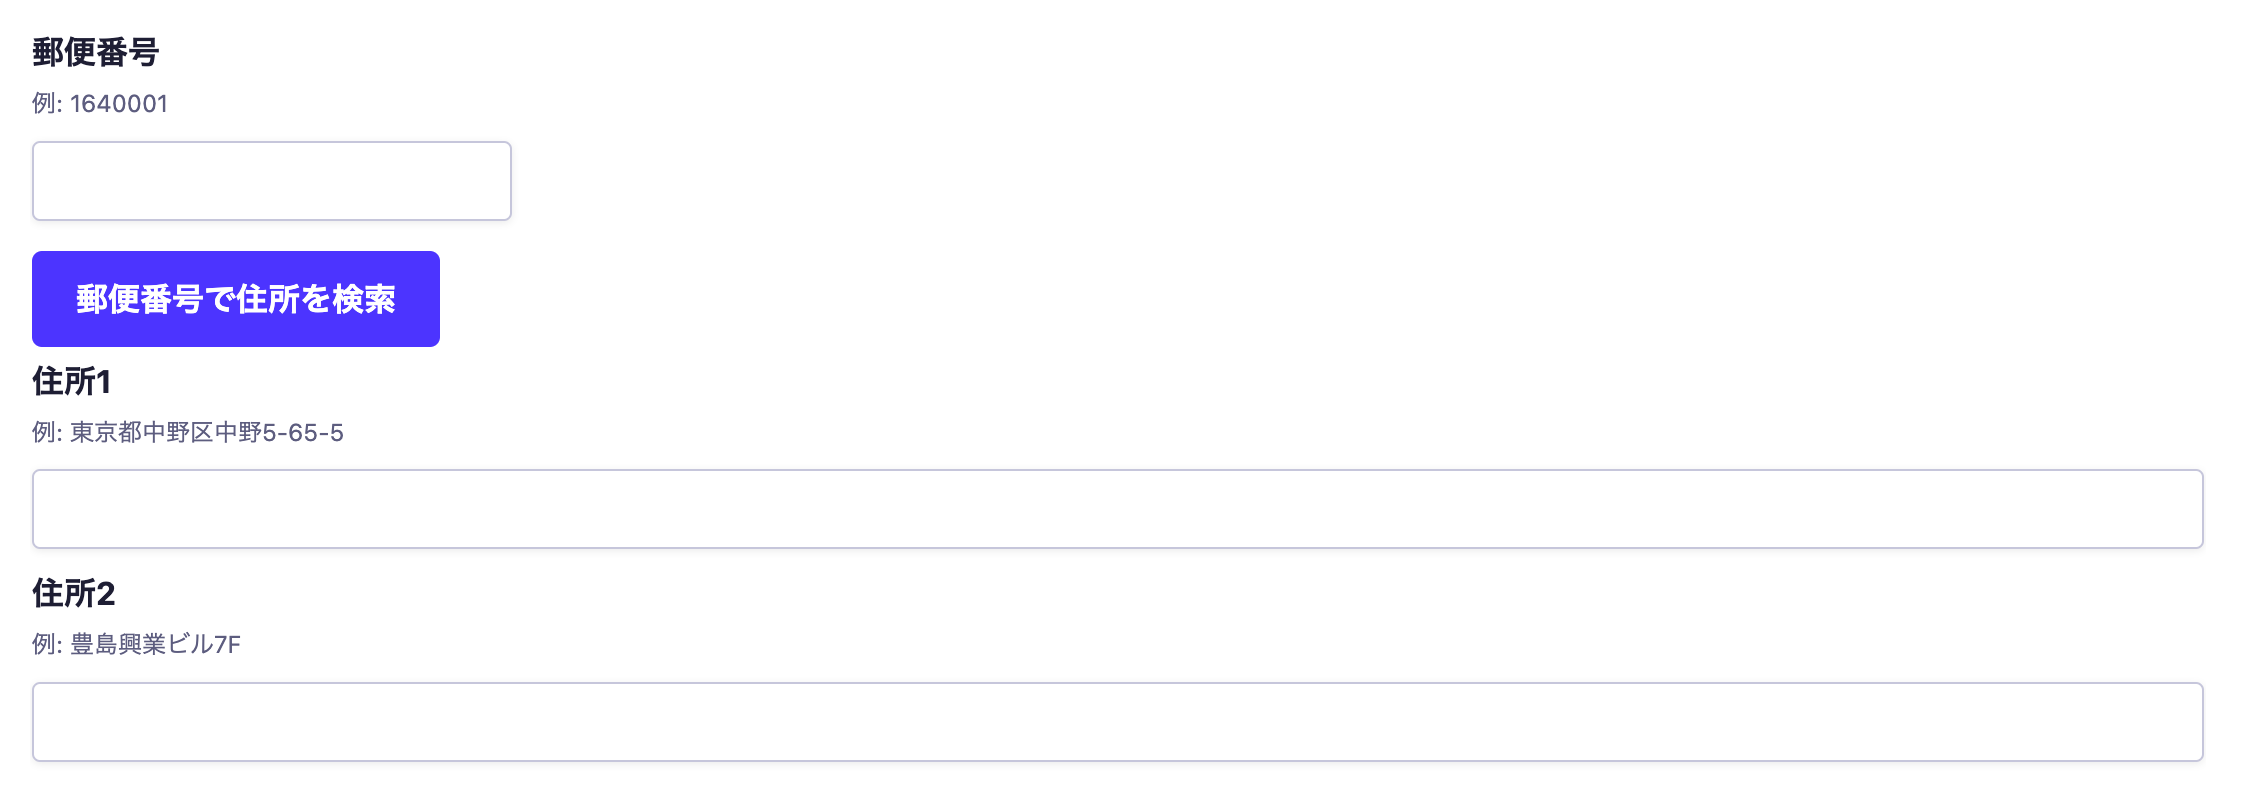
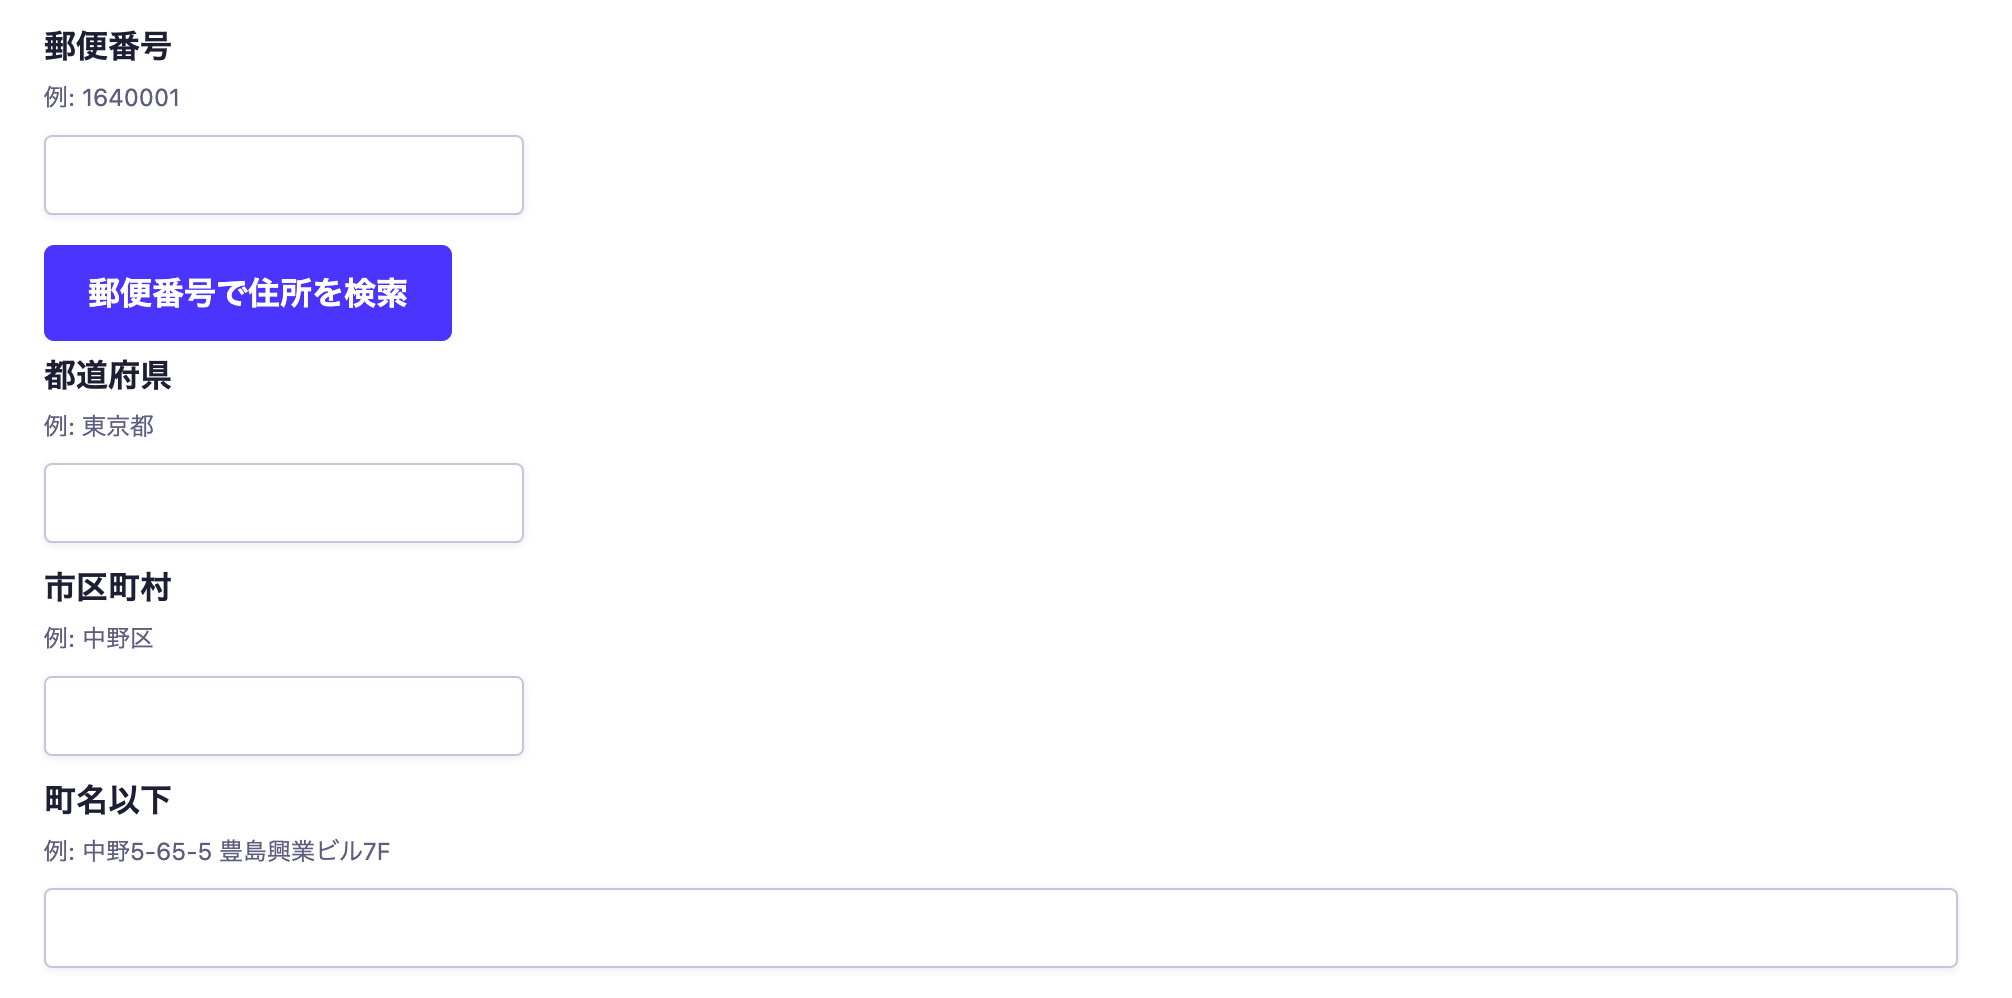
Fix formState keys to autocomplete keys

diff --git a/src/App.tsx b/src/App.tsx
@@ -6,9 +6,10 @@ import { useZipcloud } from './hooks/use-zipcloud/use-zipcloud'
 import './app.css'
 
 const initFormState = {
-  zip: '',
-  address1: '',
-  address2: '',
+  postalCode: '', // 郵便番号
+  addressLevel1: '', // 都道府県
+  addressLevel2: '', // 市区町村
+  streetAddress: '' // 町名以下
 }
 
 type FormState = typeof initFormState
@@ -22,7 +23,7 @@ function App() {
   )
 
   const { defaultMessage, microCMSPostData } = useMicroCMSIframe<FormState>({
-    height: 410,
+    height: 510,
   })
 
   const { error: zipError, handler, loading } = useZipcloud()
@@ -35,21 +36,24 @@ function App() {
 
   /** 郵便番号から住所を検索する */
   const searchAddressByZip = async () => {
-    const zpicode = formState.zip.replace(/^([0-9]{3})-?([0-9]{4})$/, '$1$2')
-    const { data: zips } = await handler(zpicode)
+    const postalCode = formState.postalCode.replace(/^([0-9]{3})-?([0-9]{4})$/, '$1$2')
+    const { data: zips } = await handler(postalCode)
     if (!zips) return
     formDispatch({
-      zip: zpicode,
-      address1: `${zips[0].address1}${zips[0].address2}${zips[0].address3}`,
+      postalCode,
+      addressLevel1: zips[0].address1,
+      addressLevel2: zips[0].address2,
+      streetAddress: zips[0].address3
     })
   }
 
   // 郵便番号・住所・建物名のいずれかが更新されたらmicroCMSに送る
   useEffect(() => {
     const values = [
-      formState.zip.replace(/^([0-9]{3})-?([0-9]{4})$/, '〒$1-$2'),
-      formState.address1,
-      formState.address2,
+      formState.postalCode.replace(/^([0-9]{3})-?([0-9]{4})$/, '〒$1-$2'),
+      formState.addressLevel1,
+      formState.addressLevel2,
+      formState.streetAddress,
     ]
     microCMSPostData({
       description: values.join(' '),
@@ -59,53 +63,60 @@ function App() {
 
   return (
     <>
-      <form>
-        <label htmlFor="zip">
+      <form autoComplete="off">
+        <label htmlFor="postal-code">
           郵便番号
           <br />
           <span className="example">1640001</span>
         </label>
 
         <input
-          id="zip"
           type="text"
-          required
-          autoComplete="off"
-          value={formState.zip}
-          onChange={(e) => formDispatch({ zip: e.target.value })}
+          id="postal-code"
+          name='postal-code'
+          value={formState.postalCode}
+          onChange={(e) => formDispatch({ postalCode: e.target.value })}
         />
         <p className="error">{zipError}</p>
         <button type="button" onClick={searchAddressByZip}>
           郵便番号で住所を検索
         </button>
 
-        <label htmlFor="address">
-          住所1
+        <label htmlFor="address-level1">
+          都道府県
           <br />
-          <span className="example">東京都中野区中野5-65-5</span>
+          <span className="example">東京都</span>
         </label>
         <input
-          id="address"
           type="text"
-          className="w-full"
-          required
-          autoComplete="off"
-          value={formState.address1}
-          onChange={(e) => formDispatch({ address1: e.target.value })}
+          id="address-level1"
+          value={formState.addressLevel1}
+          onChange={(e) => formDispatch({ addressLevel1: e.target.value })}
         />
 
-        <label htmlFor="building">
-          住所2
+        <label htmlFor="address-level2">
+          市区町村
           <br />
-          <span className="example">豊島興業ビル7F</span>
+          <span className="example">中野区</span>
         </label>
         <input
-          id="building"
           type="text"
+          id="address-level2"
+          value={formState.addressLevel2}
+          onChange={(e) => formDispatch({ addressLevel2: e.target.value })}
+        />
+
+        <label htmlFor="street-address">
+          町名以下
+          <br />
+          <span className="example">中野5-65-5 豊島興業ビル7F</span>
+        </label>
+        <input
+          type="text"
+          id="street-address"
           className="w-full"
-          autoComplete="off"
-          value={formState.address2}
-          onChange={(e) => formDispatch({ address2: e.target.value })}
+          value={formState.streetAddress}
+          onChange={(e) => formDispatch({ streetAddress: e.target.value })}
         />
       </form>
       {loading && <Loading />}

diff --git a/README.md b/README.md
@@ -17,9 +17,10 @@ DEMO: [https://tsuki-lab.github.io/microcms-iframe-address/](https://tsuki-lab.g
 ## レスポンス
 ```json
   {
-    "zip": "郵便番号",
-    "address1": "住所1",
-    "address2": "住所2"
+    "postalCode": "郵便番号",
+    "addressLevel1": "都道府県",
+    "addressLevel2": "市区町村",
+    "streetAddress": "町名以下"
   }
 ```
 
